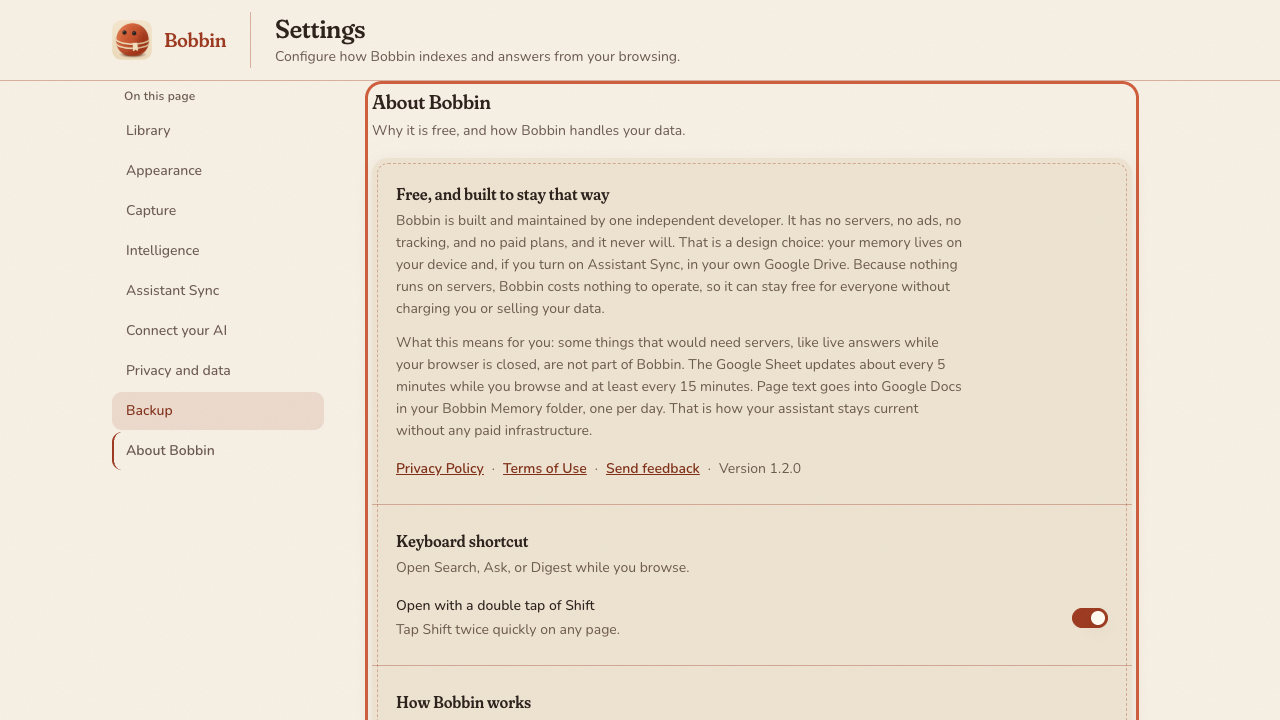
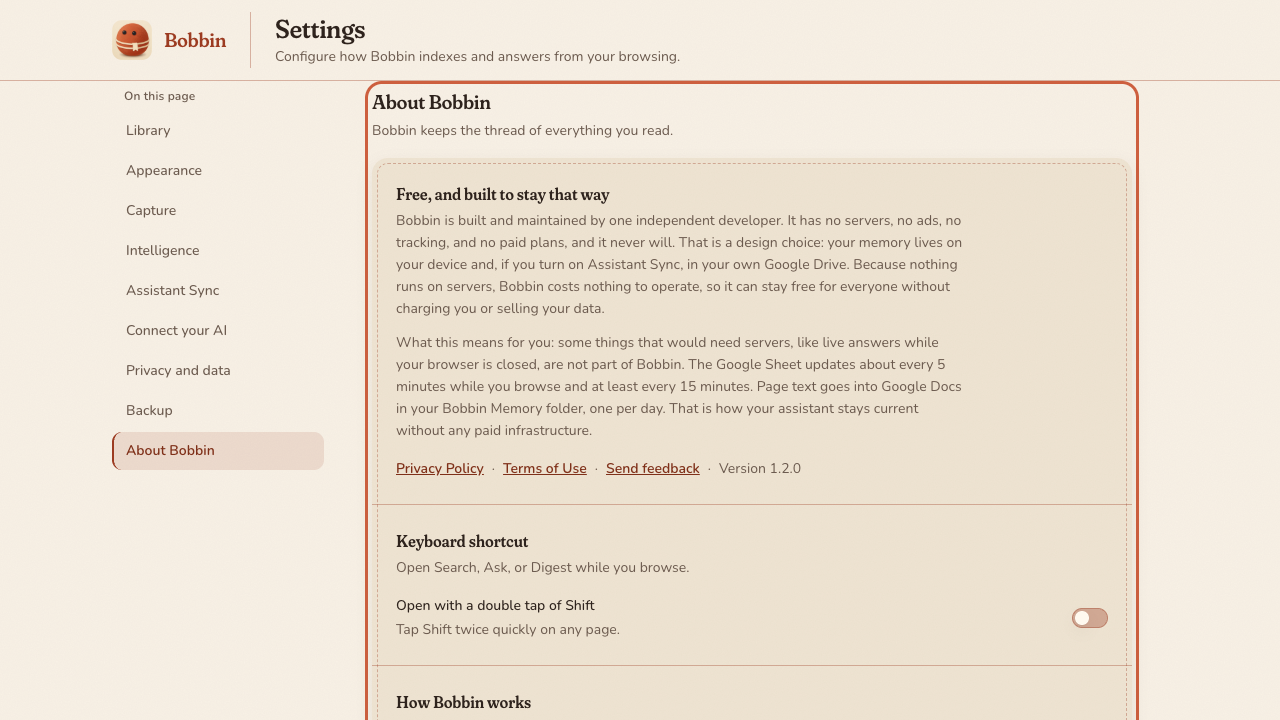
Point Pages links at Bobbin and ship the new tagline
GitHub Pages is now skumar54uncc.github.io/Bobbin. The manifest
starts with the tagline; the store short description is the 123
character summary. About uses the brand line. guide-pointer.js
keeps 8 KB free.

Changed region(s): [[0.0938, 0.55, 0.25, 0.6417], [0.2812, 0.1528, 0.5312, 0.2139], [0.8438, 0.825, 0.875, 0.8861]]

diff --git a/src/options/options.html b/src/options/options.html
@@ -445,9 +445,9 @@
                 Assistant Sync copies your library into a folder named Bobbin Memory in your own Google Drive. After you enable it, Bobbin updates it about every 5 minutes while you browse, and at least every 15 minutes. The Bobbin Memory sheet holds page titles, URLs, searches, LinkedIn profiles, and topics. The Pages folder holds one Google Doc per day with the text of pages you read (20 seconds on screen or scrolled 30 percent), up to 4,000 characters each, and the name, headline, location, current role, About, Experience, Education, and skills of LinkedIn profiles you open. Text of LinkedIn feed posts syncs only when you turn on Save text of LinkedIn posts I scroll past. The Google permission is drive.file: Bobbin can create and edit only the files it creates in that folder, not the rest of your Drive. When you connect an assistant to that folder, it can read the relevant rows and page text while it answers you. Sync stays off until you press Enable.
               </p>
               <p class="cx-field-hint">
-                <a href="https://skumar54uncc.github.io/Cortex/privacy-policy.html" target="_blank" rel="noopener noreferrer">Privacy policy</a>
+                <a href="https://skumar54uncc.github.io/Bobbin/privacy-policy.html" target="_blank" rel="noopener noreferrer">Privacy policy</a>
                 ·
-                <a href="https://skumar54uncc.github.io/Cortex/data-deletion.html" target="_blank" rel="noopener noreferrer">How to delete this data</a>
+                <a href="https://skumar54uncc.github.io/Bobbin/data-deletion.html" target="_blank" rel="noopener noreferrer">How to delete this data</a>
               </p>
               <div class="cx-actions-row">
                 <button type="button" id="cx-assistant-enable" class="cx-btn cx-btn-primary">Enable</button>
@@ -821,7 +821,7 @@
         <section class="cx-sec" id="cx-sec-about" tabindex="-1" aria-labelledby="cx-about-h">
           <div class="cx-sec-head">
             <h2 class="cx-sec-title" id="cx-about-h">About Bobbin</h2>
-            <p class="cx-sec-desc">Why it is free, and how Bobbin handles your data.</p>
+            <p class="cx-sec-desc">Bobbin keeps the thread of everything you read.</p>
           </div>
 
           <div class="cx-panel cx-about-panel">
@@ -846,9 +846,9 @@
                 </p>
               </div>
               <p class="cx-about-links">
-                <a href="https://skumar54uncc.github.io/Cortex/privacy-policy.html" target="_blank" rel="noopener noreferrer">Privacy Policy</a>
+                <a href="https://skumar54uncc.github.io/Bobbin/privacy-policy.html" target="_blank" rel="noopener noreferrer">Privacy Policy</a>
                 <span aria-hidden="true">·</span>
-                <a href="https://github.com/skumar54uncc/Cortex/blob/main/TERMS.md" target="_blank" rel="noopener noreferrer">Terms of Use</a>
+                <a href="https://github.com/skumar54uncc/Bobbin/blob/main/TERMS.md" target="_blank" rel="noopener noreferrer">Terms of Use</a>
                 <span aria-hidden="true">·</span>
                 <a
                   id="cx-about-feedback"

diff --git a/src/shared/about-copy.ts b/src/shared/about-copy.ts
@@ -1,5 +1,17 @@
 /** Popup footer, About Bobbin, and header taglines. Exact user-facing Phase 6 copy. */
 
+/** Store listing tagline, homepage hero, onboarding first screen, and the start of the manifest description. */
+export const PRODUCT_TAGLINE = "Read it once. Ask your AI anytime.";
+/** About Bobbin and the homepage brand line. */
+export const BRAND_LINE = "Bobbin keeps the thread of everything you read.";
+/** Chrome Web Store short description. 132 characters max. */
+export const STORE_SUMMARY =
+  "Bobbin remembers the pages you read so Claude, ChatGPT, Gemini, and Grok can answer questions about them. Free. No servers.";
+
+/** Manifest description: tagline first, then a 132-character-safe rest. The store short description is STORE_SUMMARY. */
+export const MANIFEST_DESCRIPTION =
+  "Read it once. Ask your AI anytime. Remembers pages you read for Claude, ChatGPT, Gemini, and Grok. Free. No servers.";
+
 export const TAGLINE_SYNC_OFF = "Private library of pages you read on this device";
 export const TAGLINE_SYNC_ON = "On this device and in your Google Drive";
 
@@ -17,10 +29,11 @@ export const ABOUT_FREE_P1 =
 export const ABOUT_FREE_P2 =
   "What this means for you: some things that would need servers, like live answers while your browser is closed, are not part of Bobbin. The Google Sheet updates about every 5 minutes while you browse and at least every 15 minutes. Page text goes into Google Docs in your Bobbin Memory folder, one per day. That is how your assistant stays current without any paid infrastructure.";
 
-/** Published GitHub Pages URL. The repo is still named Cortex; do not invent a /Bobbin host. */
-export const PRIVACY_POLICY_URL = "https://skumar54uncc.github.io/Cortex/privacy-policy.html";
-export const DATA_DELETION_URL = "https://skumar54uncc.github.io/Cortex/data-deletion.html";
-export const TERMS_URL = "https://github.com/skumar54uncc/Cortex/blob/main/TERMS.md";
+/** GitHub Pages from main, /docs. Phase 7 adds /privacy and /terms as folders. */
+export const HOMEPAGE_URL = "https://skumar54uncc.github.io/Bobbin/";
+export const PRIVACY_POLICY_URL = "https://skumar54uncc.github.io/Bobbin/privacy-policy.html";
+export const DATA_DELETION_URL = "https://skumar54uncc.github.io/Bobbin/data-deletion.html";
+export const TERMS_URL = "https://github.com/skumar54uncc/Bobbin/blob/main/TERMS.md";
 export const FEEDBACK_FORM_URL =
   "https://docs.google.com/forms/d/e/1FAIpQLSeC5bLybg056jJQzpohfgSX8r1OWlgtT7LSlSeHgvbT3CqQCQ/viewform";
 

diff --git a/tests/about-copy.test.ts b/tests/about-copy.test.ts
@@ -5,10 +5,15 @@ import {
   ABOUT_FREE_P1,
   ABOUT_FREE_P2,
   ABOUT_FREE_TITLE,
+  BRAND_LINE,
   DATA_DELETION_URL,
   FEEDBACK_FORM_URL,
   FOOTER_FREE,
+  HOMEPAGE_URL,
+  MANIFEST_DESCRIPTION,
   PRIVACY_POLICY_URL,
+  PRODUCT_TAGLINE,
+  STORE_SUMMARY,
   TAGLINE_SYNC_OFF,
   TAGLINE_SYNC_ON,
   TERMS_URL,
@@ -53,7 +58,18 @@ describe("Phase 6 free and independent copy", () => {
     expect(html).toContain(">Privacy Policy<");
     expect(html).toContain(">Terms of Use<");
     expect(html).toContain(">Send feedback<");
-    expect(html).not.toContain("github.io/Bobbin");
+    expect(html).toContain(BRAND_LINE);
+    expect(html).toContain("github.io/Bobbin");
+    expect(html).not.toContain("github.io/Cortex");
+  });
+
+  it("uses the marketing tagline on onboarding and in the manifest", () => {
+    const onb = readFileSync(join(root, "src/onboarding/onboarding.html"), "utf8");
+    expect(onb).toContain(PRODUCT_TAGLINE);
+    expect(MANIFEST_DESCRIPTION.startsWith(PRODUCT_TAGLINE)).toBe(true);
+    expect(MANIFEST_DESCRIPTION.length).toBeLessThanOrEqual(132);
+    expect(STORE_SUMMARY.length).toBeLessThanOrEqual(132);
+    expect(HOMEPAGE_URL).toBe("https://skumar54uncc.github.io/Bobbin/");
   });
 
   it("uses the same taglines in the overlay", () => {

diff --git a/e2e/about-free.spec.ts b/e2e/about-free.spec.ts
@@ -26,6 +26,7 @@ test("popup footer and About Bobbin match the free-forever copy", async ({ conte
   expect(about.url()).toContain("options.html#cx-sec-about");
   const section = about.locator("#cx-sec-about");
   await expect(section.locator("#cx-about-h")).toHaveText("About Bobbin");
+  await expect(section).toContainText("Bobbin keeps the thread of everything you read.");
   await expect(section).toContainText("Free, and built to stay that way");
   await expect(section).toContainText("about every 5 minutes");
   await expect(section).toContainText("Page text goes into Google Docs in your Bobbin Memory folder");
@@ -36,4 +37,10 @@ test("popup footer and About Bobbin match the free-forever copy", async ({ conte
   await expect(section).toContainText("Version");
   await section.scrollIntoViewIfNeeded();
   await about.screenshot({ path: join(SHOTS, "settings-about.png") });
+
+  const onb = await context.newPage();
+  await onb.setViewportSize({ width: 720, height: 900 });
+  await onb.goto(`chrome-extension://${extensionId}/onboarding.html`);
+  await expect(onb.locator(".cx-opt-subtitle")).toHaveText("Read it once. Ask your AI anytime.");
+  await onb.screenshot({ path: join(SHOTS, "onboarding.png") });
 });

diff --git a/src/onboarding/onboarding.ts b/src/onboarding/onboarding.ts
@@ -3,22 +3,11 @@ import {
   INDEXING_CONSENT_KEY,
   ONBOARDING_DONE_KEY,
 } from "../shared/onboarding-constants";
-import { headerTagline } from "../shared/about-copy";
 import { injectBrandFontFacesInto } from "../styles/brand-fonts";
 import { storageLocalGet, storageLocalSet } from "../shared/storage-local";
 import { requestPersistentStorage } from "../shared/persist-storage";
 
 injectBrandFontFacesInto(document.head);
-
-function applyHeaderTagline(): void {
-  const el = document.querySelector("#cx-onb-tagline");
-  if (!el || typeof chrome.runtime?.sendMessage !== "function") return;
-  chrome.runtime.sendMessage({ type: "CORTEX_SYNC_LABEL" }, (resp?: { on?: boolean }) => {
-    if (chrome.runtime.lastError) return;
-    el.textContent = headerTagline(Boolean(resp?.on));
-  });
-}
-applyHeaderTagline();
 // Onboarding opens on install: ask once then for storage that survives low disk space.
 void requestPersistentStorage();
 

diff --git a/src/onboarding/onboarding.html b/src/onboarding/onboarding.html
@@ -25,7 +25,7 @@
           />
           <span class="cx-onb-brand-text">
             <span class="cx-opt-brand-wordmark">Bobbin</span>
-            <span id="cx-onb-tagline" class="cx-onb-tagline">Private library of pages you read on this device</span>
+            <span id="cx-onb-tagline" class="cx-onb-tagline">Read it once. Ask your AI anytime.</span>
           </span>
         </div>
         </div>
@@ -35,7 +35,7 @@
         <header class="cx-opt-page-head">
           <h1 class="cx-opt-title">Welcome to Bobbin</h1>
           <p class="cx-opt-subtitle">
-            Search and ask questions about pages you have visited. Private, on this device.
+            Read it once. Ask your AI anytime.
           </p>
         </header>
 

diff --git a/tests/product-name.test.ts b/tests/product-name.test.ts
@@ -19,9 +19,7 @@ function allowed(hit: { file: string; text: string }): boolean {
   if (hit.text.startsWith("[Cortex]")) return true;
   if (hit.text === "CortexError" || hit.text === "contains-cortex") return true;
   if (hit.text.includes(RENAME_NOTICE) || hit.text === RENAME_NOTICE) return true;
-  // Public GitHub Pages and repo URLs still use the Cortex repository name.
-  if (/skumar54uncc\.github\.io\/Cortex\b/.test(hit.text)) return true;
-  if (/github\.com\/skumar54uncc\/Cortex\b/.test(hit.text)) return true;
+  // Public GitHub Pages and repo URLs use the Bobbin repository name.
   if (ALLOW_FILE.has(hit.file) && hit.text.includes("Cortex")) return true;
   return false;
 }

diff --git a/tests/manifest.test.ts b/tests/manifest.test.ts
@@ -57,8 +57,9 @@ describe("store listing fields (Phase 2.9)", () => {
     expect(manifest.name).toBe("Bobbin: Browsing Memory for AI");
     expect(manifest.short_name).toBe("Bobbin");
     expect(manifest.description).toBe(
-      "Ask anything you've read, watched or scanned. Pages, YouTube, tables and images, indexed on your device."
+      "Read it once. Ask your AI anytime. Remembers pages you read for Claude, ChatGPT, Gemini, and Grok. Free. No servers."
     );
+    expect(manifest.description.startsWith("Read it once. Ask your AI anytime.")).toBe(true);
   });
 
   it("keeps name within 75 and description within 132 characters", () => {

diff --git a/docs/privacy-policy.html b/docs/privacy-policy.html
@@ -239,13 +239,13 @@
     <h2>Contact</h2>
     <p>
       Questions or privacy requests:
-      <a href="https://github.com/skumar54uncc/Cortex/issues">GitHub Issues</a>
+      <a href="https://github.com/skumar54uncc/Bobbin/issues">GitHub Issues</a>
       for this project.
     </p>
 
     <p class="muted">
       Source repository:
-      <a href="https://github.com/skumar54uncc/Cortex">github.com/skumar54uncc/Cortex</a>
+      <a href="https://github.com/skumar54uncc/Bobbin">github.com/skumar54uncc/Bobbin</a>
     </p>
 
     <p class="muted">

diff --git a/docs/release-1.2.0/STORE_RELEASE.md b/docs/release-1.2.0/STORE_RELEASE.md
@@ -83,17 +83,23 @@ Leave unticked: health information, financial and payment information, authentic
 
 **Limited Use / Google APIs**: Bobbin's use of information received from Google APIs adheres to the Chrome Web Store User Data Policy, including the Limited Use requirements. State this on the privacy policy URL (see `docs/privacy-policy.html`).
 
-**Privacy policy URL**: the listing needs a public privacy policy page that matches the answers above (`https://skumar54uncc.github.io/Cortex/privacy-policy.html` after GitHub Pages deploy).
+**Privacy policy URL**: the listing needs a public privacy policy page that matches the answers above (`https://skumar54uncc.github.io/Bobbin/privacy-policy.html` after GitHub Pages deploy).
 
 ## Listing copy
 
 **Name:** Bobbin: Browsing Memory for AI
 
-**Short description (manifest, 104 characters):** Ask anything you've read, watched or scanned. Pages, YouTube, tables and images, indexed on your device.
+**Tagline:** Read it once. Ask your AI anytime.
+
+**Short description (123 characters):** Bobbin remembers the pages you read so Claude, ChatGPT, Gemini, and Grok can answer questions about them. Free. No servers.
+
+**Manifest description (tagline first, 116 characters):** Read it once. Ask your AI anytime. Remembers pages you read for Claude, ChatGPT, Gemini, and Grok. Free. No servers.
 
 **Detailed description:**
 
-Bobbin is a private memory for your browser. After you agree on the welcome page, it indexes what you read, watch and open, and lets you search it or ask questions in plain language. Indexing, search and the language model all run on your device. There is no Bobbin server, no account and no tracking.
+Read it once. Ask your AI anytime.
+
+Bobbin keeps the thread of everything you read. Bobbin is a private memory for your browser. After you agree on the welcome page, it indexes what you read, watch and open, and lets you search it or ask questions in plain language. Indexing, search and the language model all run on your device. There is no Bobbin server, no account and no tracking.
 
 Optional Assistant Sync copies that same memory into a folder named Bobbin Memory in your own Google Drive, only after you press Enable. The Google permission is drive.file (files Bobbin creates, not your whole Drive). Optional Cloud Chat uses your own Gemini API key and sends only short text snippets, never whole pages, PDFs or images. Assist Sync and Cloud Chat are features of the same private memory.
 

diff --git a/docs/store-listing.md b/docs/store-listing.md
@@ -2,8 +2,10 @@
 
 Hosted pages, after GitHub Pages deploys the `docs` folder:
 
-- Privacy policy: https://skumar54uncc.github.io/Cortex/privacy-policy.html
-- Data deletion: https://skumar54uncc.github.io/Cortex/data-deletion.html
+- Homepage: https://skumar54uncc.github.io/Bobbin/
+- Privacy policy: https://skumar54uncc.github.io/Bobbin/privacy-policy.html
+- Data deletion: https://skumar54uncc.github.io/Bobbin/data-deletion.html
+- Terms of Use: https://github.com/skumar54uncc/Bobbin/blob/main/TERMS.md (Phase 7 publishes `/terms`)
 
 Canonical release-pack answers (permissions form, privacy practices tab, detailed listing) live in `docs/release-1.2.0/STORE_RELEASE.md`. Keep this draft aligned with that file; do not invent a second privacy story.
 
@@ -19,13 +21,19 @@ Productivity
 
 Bobbin: Browsing Memory for AI
 
+## Tagline
+
+Read it once. Ask your AI anytime.
+
 ## Short description
 
-Ask anything you've read, watched or scanned. Pages, YouTube, tables and images, indexed on your device.
+Bobbin remembers the pages you read so Claude, ChatGPT, Gemini, and Grok can answer questions about them. Free. No servers.
 
 ## Full description
 
-Bobbin is a private memory for your browser. After you agree on the welcome page, it indexes what you read, watch and open, and lets you search it or ask questions in plain language. Indexing, search and the language model all run on your device. There is no Bobbin server, no account and no tracking.
+Read it once. Ask your AI anytime.
+
+Bobbin keeps the thread of everything you read. Bobbin is a private memory for your browser. After you agree on the welcome page, it indexes what you read, watch and open, and lets you search it or ask questions in plain language. Indexing, search and the language model all run on your device. There is no Bobbin server, no account and no tracking.
 
 Optional Assistant Sync copies that same memory into a folder named Bobbin Memory in your own Google Drive, only after you press Enable: a spreadsheet index plus one Google Doc per day with the text of pages you read. The Google permission is drive.file (files Bobbin creates, not your whole Drive). Optional Cloud Chat uses your own Gemini API key and sends only short text snippets, never whole pages, PDFs or images. Assist Sync and Cloud Chat are features of the same private memory.
 

diff --git a/docs/v2/phase-6-notes.md b/docs/v2/phase-6-notes.md
@@ -8,7 +8,8 @@ Cadence in About is 5 minutes (not 2), and Pages docs are named.
 - Popup footer: "Free forever. No ads. No servers. Your data stays yours." plus "Why it's free", which opens Settings at `#cx-sec-about`.
 - Settings **About Bobbin**: title "Free, and built to stay that way", the independent-developer copy, Privacy Policy, Terms of Use, Send feedback (version and browser prefilled, no browsing data), and Version.
 - Header tagline: "Private library of pages you read on this device" when Assistant Sync is off; "On this device and in your Google Drive" when it is on. Popup, overlay, and onboarding read `CORTEX_SYNC_LABEL`.
-- Privacy and data-deletion links stay on `https://skumar54uncc.github.io/Cortex/...` (the GitHub Pages host is the repo name). Terms of Use points at `TERMS.md` until Phase 7 publishes HTML.
+- Pages host is `https://skumar54uncc.github.io/Bobbin/` (main, `/docs`). Privacy and data-deletion still use `privacy-policy.html` and `data-deletion.html` until Phase 7 adds `/privacy` and `/terms`. Terms of Use points at `TERMS.md` until then.
+- Tagline: "Read it once. Ask your AI anytime." Onboarding first screen, store listing, and the start of the manifest description. Brand line on About: "Bobbin keeps the thread of everything you read." Header subtitle still follows Assistant Sync on/off.
 
 ## Tests
 
